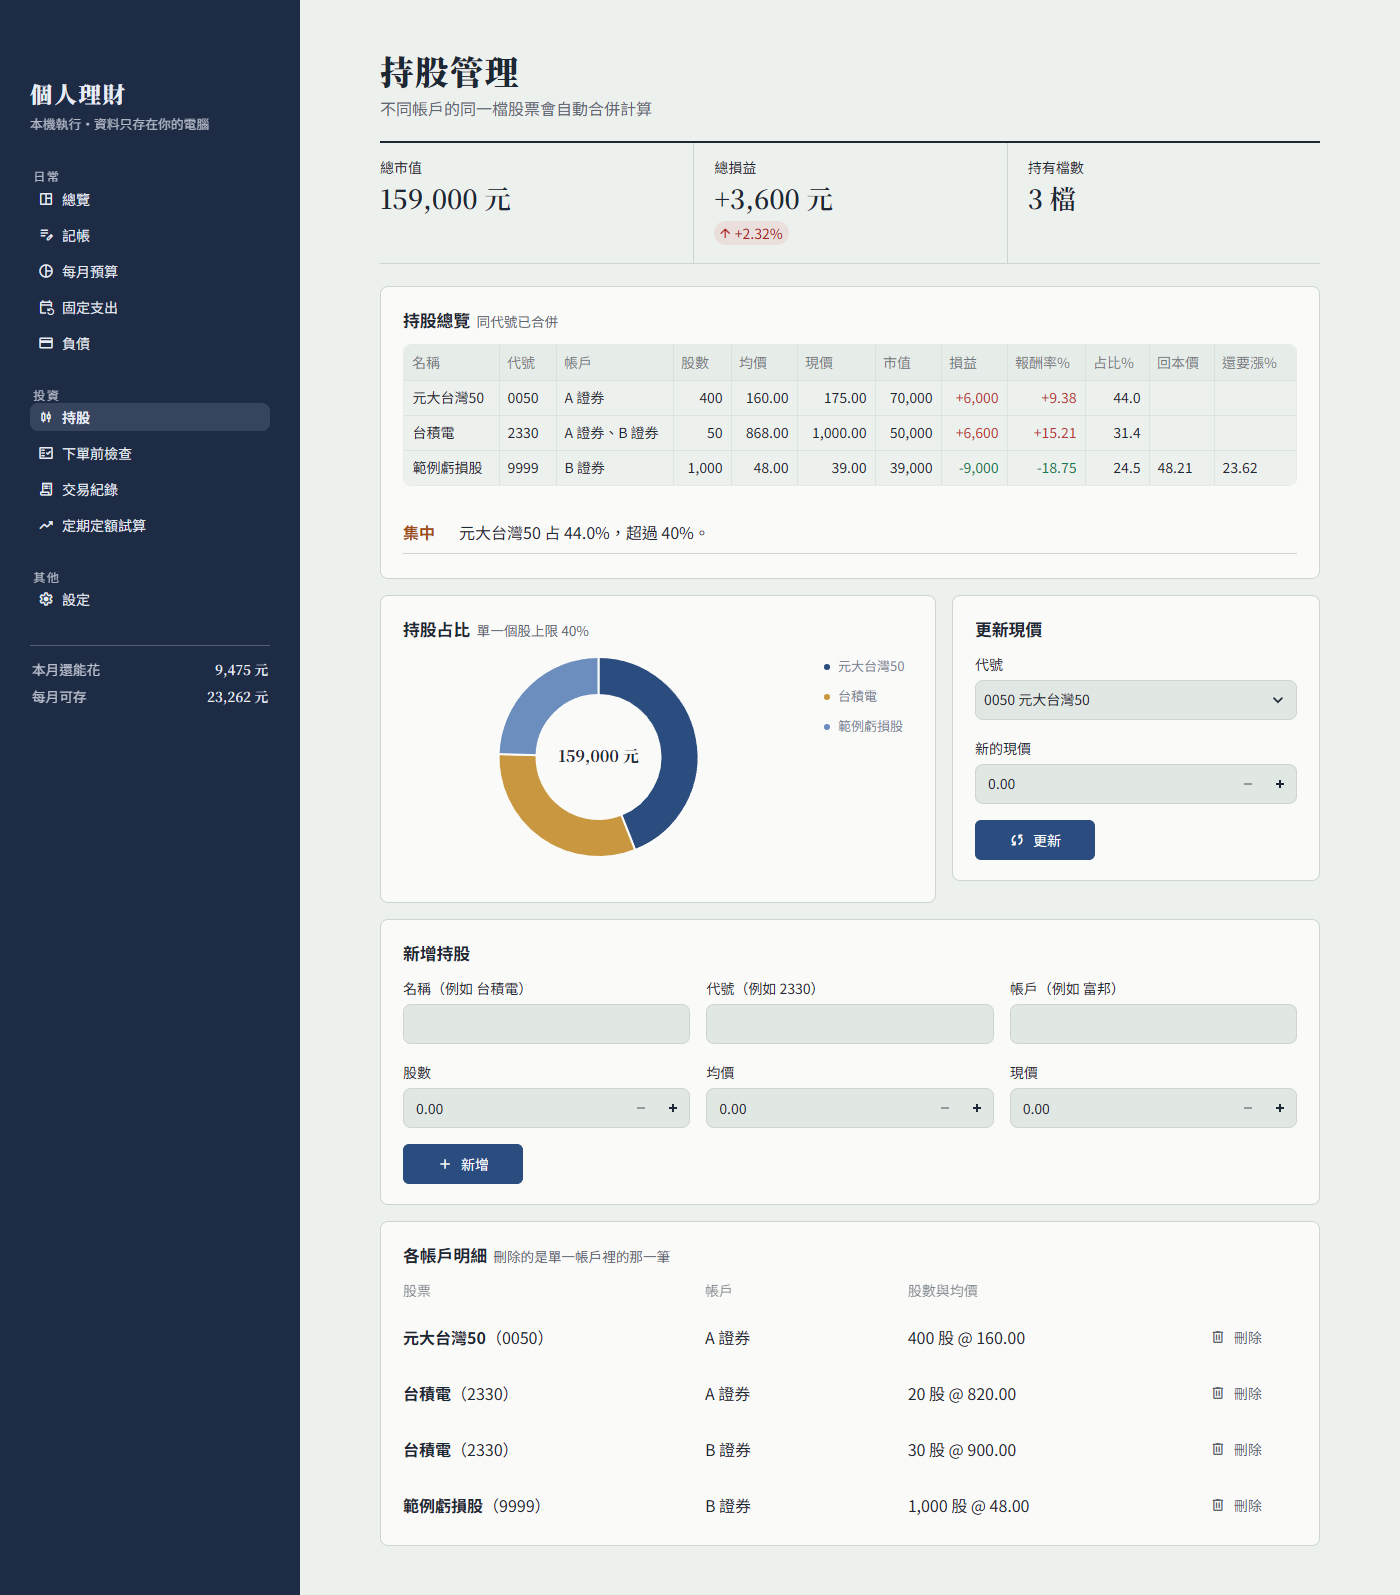
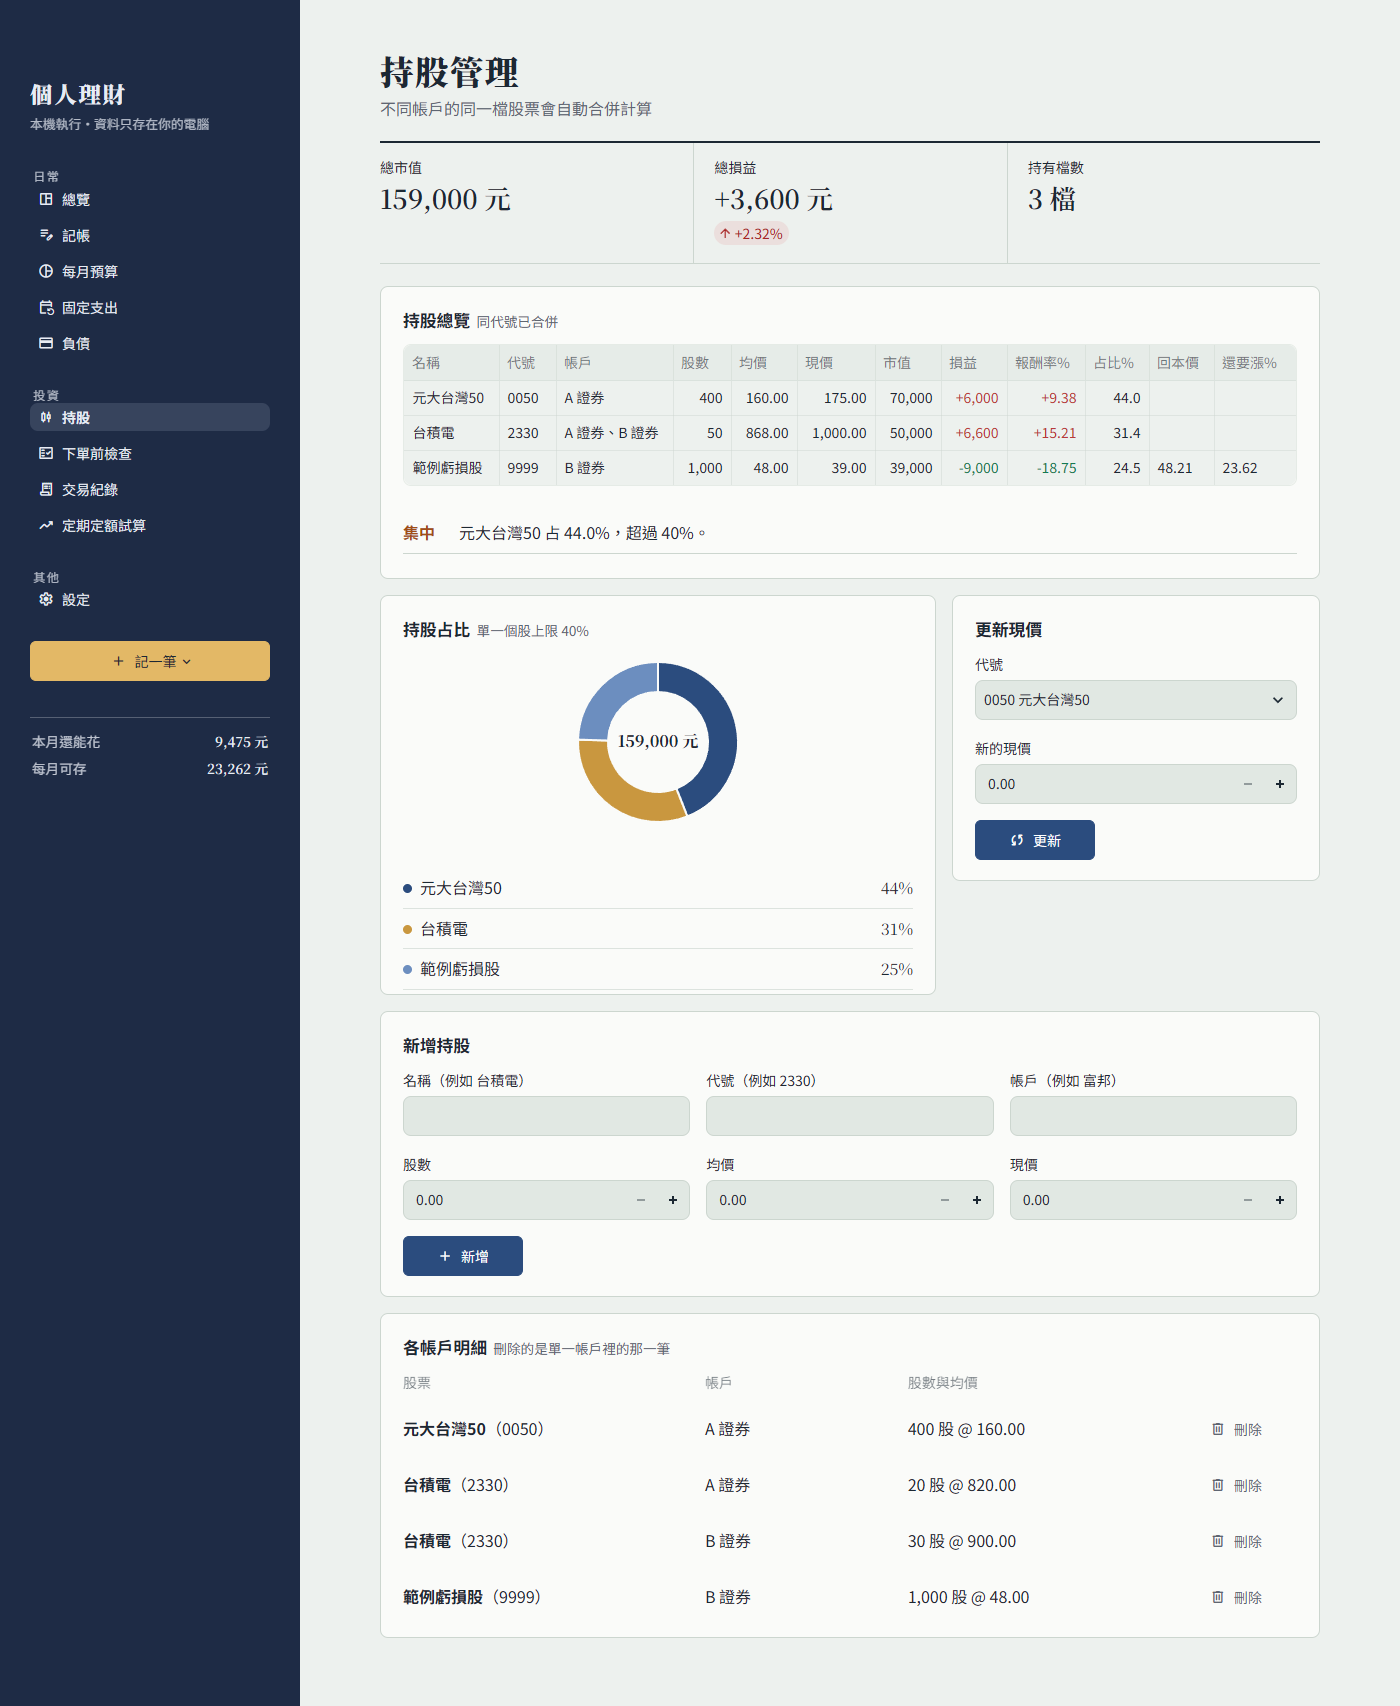
文件：README 新功能與安裝說明、更新截圖、CLAUDE.md 與開發紀錄補上 v1 與打包的坑

diff --git a/CLAUDE.md b/CLAUDE.md
@@ -30,14 +30,15 @@
 python -m venv .venv && source .venv/bin/activate   # Windows：.venv\Scripts\activate
 pip install -r requirements.txt
 streamlit run app.py          # http://localhost:8501，第一次會自動建立 data/finance.db
-pytest                        # 目前 44 passed
+pytest                        # 目前 83 passed（含 tests/test_app.py 的畫面測試）
 
 # 用虛構範例資料啟動（不會動到 finance.db）
 python seed_example.py
 FINANCE_DB=data/example.db streamlit run app.py
 ```
 
-打包 exe：Windows 跑 `build_exe.bat`，macOS 跑 `bash build_mac.sh`（只能在目標系統上打包）。細節見 README。
+打包：Windows 跑 `build_exe.bat`（產生安裝檔），macOS 跑 `bash build_mac.sh`。細節見 README。
+一般用 GitHub Actions 打包即可（PR 有改程式或打包檔案時自動跑，會實際安裝、啟動並確認畫面）。
 
 ## 架構：三層分開
 
@@ -52,8 +53,8 @@ FINANCE_DB=data/example.db streamlit run app.py
 
 ### 各檔案職責
 
-- `app.py`（約 1100 行）：由上到下是「配色與 CSS（`inject_css`）→ 共用小工具（`money`、`ledger`、`summary_strip`、`notices`、`plain`、`done`、`budget_bar`、`donut`…）→ 各頁 `page_*()` 函式 → 側邊欄 → 主程式（`NAV` 清單 + `st.navigation`）」。新增頁面：寫一個 `page_xxx()`，再加進檔尾的 `NAV`。外觀是「存摺」風格：一排數字用 `summary_strip()`、自律提醒用 `notices()`、明細用 `ledger()`。
-- `db.py`：`DB_PATH` 預設是 `data/finance.db`；exe 版（`sys.frozen`）是 `~/FinanceApp/finance.db`；環境變數 `FINANCE_DB` 可覆蓋。`init_db()` 用 `CREATE TABLE IF NOT EXISTS` 建 7 張表：`settings`（key/value）、`budgets`、`expenses`、`fixed_expenses`、`debts`、`holdings`、`trades`。
+- `app.py`（約 1100 行）：由上到下是「配色與 CSS（`inject_css`）→ 共用小工具（`money`、`ledger`、`summary_strip`、`notices`、`plain`、`done`、`budget_bar`、`show_donut`、`welcome`…）→ 各頁 `page_*()` 函式 → 側邊欄 → 主程式（`NAV` 清單 + `st.navigation`）」。新增頁面：寫一個 `page_xxx()`，再加進檔尾的 `NAV`。外觀是「存摺」風格：一排數字用 `summary_strip()`、自律提醒用 `notices()`、明細用 `ledger()`。
+- `db.py`：`DB_PATH` 預設是 `data/finance.db`；視窗版（`run_app.py` 設定環境變數，或 PyInstaller 的 `sys.frozen`）是 `~/FinanceApp/finance.db`；環境變數 `FINANCE_DB` 可覆蓋。`init_db()` 用 `CREATE TABLE IF NOT EXISTS` 建 9 張表：`settings`（key/value）、`budgets`、`expenses`、`fixed_expenses`、`debts`、`debt_payments`（還款紀錄）、`holdings`、`trades`、`networth_history`（每天的淨資產）。也負責每日自動備份（`auto_backup`，資料庫旁的 `backups/`，留 14 份）和還原（`restore_backup`，還原前先另存）。
 - `models/budget.py`：預算類別 `CATEGORIES`（唯一定義處）、篩選某月、本月還能花多少。
 - `models/cashflow.py`：每月可存 = 收入 − 固定支出 − 負債還款 − 生活預算。
 - `models/debt.py`：這期還多少、剩幾期、預計還清月份（假設下一期在下個月繳）。
@@ -62,7 +63,9 @@ FINANCE_DB=data/example.db streamlit run app.py
 - `models/trades.py`：交易類型、本月當沖次數、累計損益。
 - `models/dca.py`：定期定額複利試算、4% 法則。
 - `seed_example.py`：產生虛構範例資料到 `data/example.db`，路徑不是 `example.db` 就拒絕執行。
-- `run_app.py` / `FinanceApp.spec` / `build_*.{bat,sh}` / `requirements-build.txt`：PyInstaller 打包用。
+- `run_app.py`：視窗版入口（pywebview 開視窗 + 背景 Streamlit）。
+- Windows 安裝檔：`installer/build_runtime.py`（官方嵌入式 Python + `requirements-runtime.txt` 的套件 + 程式碼 → `dist/FinanceApp`）→ `installer/FinanceApp.iss`（Inno Setup）。捷徑執行 `python\pythonw.exe app\run_app.py`。
+- `FinanceApp.spec` / `build_mac.sh` / `requirements-build.txt`：macOS 用 PyInstaller 打包。
 - `.streamlit/config.toml`：主題配色、字型。
 
 ## 程式慣例與已知陷阱
@@ -79,7 +82,18 @@ FINANCE_DB=data/example.db streamlit run app.py
 - Streamlit 每次互動都會**從頭重跑整個 `app.py`**；資料要存資料庫，改完資料後呼叫 `st.rerun()`。
 - `requirements-build.txt` 要保持**純 ASCII**（Windows 的 pip 用 cp950 讀，有中文會失敗）。
 - `.streamlit/config.toml` 由 `FinanceApp.spec` 打包到 exe 裡 `app.py` 旁邊的 `.streamlit/`（Streamlit 會讀「主程式旁邊」的設定檔），所以 exe 版也有主題；改完要重新打包才會生效。`run_app.py` 的命令列參數優先權比 config.toml 高，兩邊不要設成不一樣的值。
-- 改完畫面，除了 `pytest`，也用 `streamlit.testing.v1.AppTest` 或實際啟動，確認每一頁都打得開。
+- 改完畫面跑 `pytest`：`tests/test_app.py` 會用 AppTest 跑每一頁（有資料、空資料各一次）。頁面是函式，AppTest 的 `switch_page` 用不了，所以測試用 `runpy` 執行 app.py 再呼叫頁面函式。新增頁面要加進 `PAGES` 清單。
+- 頁面裡要連到別頁用 `st.page_link(PAGES["網址名"])`（`PAGES` 在 app.py 檔尾建立）。
+
+## Windows 打包的坑（不要再犯）
+
+1. **不要改回 PyInstaller 的 exe**：沒有簽章的 FinanceApp.exe 會被 Trend Micro 等防毒軟體刪掉（2026-10-21 在使用者電腦實測：裝完 exe 就不見）。現在用官方有簽章的 `pythonw.exe`。
+2. 在有這類防毒的電腦上，PyInstaller 和 Inno Setup 編譯也會失敗（`EndUpdateResource failed`），請用 GitHub Actions 打包。
+3. 背景伺服器不能讀 stdin 偵測視窗關閉（Windows 上會卡住 Streamlit 送檔案，畫面全白）；用 `OpenProcess` + `WaitForSingleObject`。
+4. 只檢查 `/_stcore/health` 不夠，CI 用 `.github/scripts/check_window.py` 確認畫面真的畫出來。
+5. 連線用 `127.0.0.1`，不要用 `localhost`（可能被解析成 IPv6）。
+6. 嵌入式 Python 的版本要有官方 embed 檔：3.12 最後一版是 3.12.10（見 `build_runtime.py` 的 `EMBED_VERSIONS`）。
+7. `.bat`、`requirements*.txt` 保持純 ASCII；`.iss` 是 UTF-8 含 BOM；`AppId` 不能改。
 
 ## Git 與 PR
 
@@ -96,11 +110,12 @@ FINANCE_DB=data/example.db streamlit run app.py
 - ✅ exe 版套用主題
 - ✅ MIT 授權、README 下載說明
 - ✅ 介面改版：存摺風格，並修正全面測試找到的問題（2026-10-13）
+- ✅ Windows 安裝程式（安裝精靈、獨立視窗、CI 實際安裝測試）
+- ✅ v1 實用功能（2026-10-21）：首次使用引導、側邊欄記一筆、記帳月份切換與修改、6 個月趨勢、淨資產變化、還款紀錄、每日自動備份與還原；安裝版改用官方嵌入式 Python
 
 下一步建議的待辦（完整清單和理由見 `docs/開發紀錄.md` 的「待辦」）：
 1. ETF 賣出交易稅是 0.1%（目前一律用 0.3%），手續費最低 20 元
-2. 「已還一期」可重複按，需要還款紀錄
-3. 手上現金不會隨記帳／交易自動更新
-4. `db.py` 補測試（例如現金不夠時負債和現金都不變）
+2. 手上現金不會隨記帳／交易自動更新
+3. 記帳類別寫死在 `models/budget.py`，可以考慮讓使用者自訂
 
 開始做任何一項之前，先跟使用者確認要做哪一項。

diff --git a/docs/開發紀錄.md b/docs/開發紀錄.md
@@ -61,6 +61,18 @@
   - 定期定額報酬率是負的時候，資產線被本金面積蓋住 → 資產線畫在最上層。
   - `config.toml` 的字型備援清單被 Streamlit 當成網址的一部分 → 網址只寫一個字型，備援寫在 CSS。
 
+### v1 實用功能與安裝版改版（2026-10-21）
+- 目標：讓第一次用的人知道從哪裡開始、每天記帳更快、資料不會不見。
+- 總覽：沒有任何資料時（`db.is_empty()`）改成顯示三步驟引導；有資料時多「淨資產變化」折線圖（`networth_history`，每天打開總覽時覆蓋當天那筆，至少兩天才畫）。
+- 記帳：月份選單（本月一定在選單裡）、每列的「修改」小視窗（`update_expense`）、最近 6 個月依類別疊起來的長條圖與預算虛線（`models/budget.py` 的 `last_n_months`、`monthly_totals`）。
+- 側邊欄「記一筆」：日期固定今天，要補記以前的到記帳頁。
+- 還款紀錄：`debt_payments` 表，`pay_debt_installment` 在同一個交易裡多記一筆。自己決定的規則：這個月已經還過，就不顯示「已還一期」按鈕，改成「本月已還」+ 需要再確認的「提前再還一期」（不完全禁止，因為有人會一次繳兩期）。
+- 自動備份：每天第一次打開（每個瀏覽器分頁只檢查一次）用 SQLite 的 `backup()` 複製到資料庫旁的 `backups/`，留 14 份；還原前另存一份 `...-before-restore.db`，這種檔案不會被自動刪。備份失敗不影響開啟，只在設定頁顯示。
+- 圓餅圖：Altair 內建圖例在窄卡片會蓋到圓圈，改成自己用 HTML 畫圖例並顯示百分比（待辦 21）。設定頁路徑把家目錄顯示成 `~`（待辦 22）。
+- 測試 44 → 83：`tests/test_db_features.py`、`tests/test_app.py`（AppTest 跑每一頁和主要操作）。
+- **安裝版改用官方嵌入式 Python**：在使用者電腦（Trend Micro Apex One）實測，安裝 0.0.8 後 PyInstaller 的 FinanceApp.exe 立刻被刪除，捷徑點了沒反應。改成 `installer/build_runtime.py` 準備「python.org 嵌入式 Python + 套件 + 原始碼」，捷徑執行有官方簽章的 `pythonw.exe run_app.py`；用 AppUserModelID 和 `WM_SETICON` 讓工作列、視窗顯示理財系統圖示。實測同一台電腦可以正常開啟、畫面正常。
+- 同一台電腦上，PyInstaller 和 Inno Setup 自己編譯也會被防毒擋（`EndUpdateResource failed`），安裝檔改由 GitHub Actions 產生。
+
 ## 待辦
 
 依重要程度排序。開始做之前先和使用者確認要做哪幾項。
@@ -73,24 +85,24 @@
 
 ### 🟠 資料正確性
 5. 手上現金不會隨記帳、交易自動更新，「下單前檢查」用的現金可能不準。
-6. 「已還一期」可以重複按，沒有還款紀錄；建議加還款紀錄表，同月第二次先確認。
+6. ~~「已還一期」可以重複按~~ ✅ 已完成（2026-10-21）：還款紀錄 + 同月再確認。
 7. 金額用 REAL（浮點數）存，長期可能有幾毛錢誤差；台幣可改存整數。
 8. 同代號同帳戶可以重複新增成兩列；可改成「加碼」並重算均價。
 9. 下單前檢查的「預備金已存滿」「不是加碼虧損股」可以自動判斷，目前只是參考文字。
 
 ### 🟡 功能
-10. 記帳、負債、持股、交易只能刪除重建，不能編輯（可用 `st.data_editor`）。
-11. 記帳和當沖次數只能看本月，沒有月份選擇器。
-12. 只有匯出 CSV，沒有從備份還原。
+10. 負債、持股、交易只能刪除重建，不能編輯（記帳已經可以修改，2026-10-21）。
+11. ~~記帳只能看本月~~ ✅ 記帳有月份選單了（2026-10-21）；當沖次數仍只看本月。
+12. ~~沒有從備份還原~~ ✅ 每日自動備份 + 設定頁一鍵還原（2026-10-21）；匯出的 CSV 仍不能匯入。
 13. 交易紀錄和持股沒有連動。
 
 ### 🔵 程式品質
 14. `with sqlite3.connect(...)` 只會 commit／rollback，**不會關閉連線**；可用 `contextlib.closing`。
-15. `db.py` 測試很少，`pay_debt_installment()` 最值得補。
-16. 畫面沒有自動測試，可把 `AppTest` 檢查寫成 `tests/test_app.py`。
+15. ~~`db.py` 測試很少~~ ✅ `tests/test_db_features.py`（2026-10-21）。
+16. ~~畫面沒有自動測試~~ ✅ `tests/test_app.py`（2026-10-21）。
 17. 加 GitHub Actions 自動跑 `pytest`。
 18. 資料表升級：`CREATE TABLE IF NOT EXISTS` 不會幫舊資料庫加欄位，加欄位時要寫 `ALTER TABLE` 升級程式。
 19. `app.py` 約 1000 行，再加功能可考慮拆成多個檔案。
 20. 小細節：股數可以輸入小數（零股以外應該是整數）。
-21. 視窗大約 1024px 寬、側邊欄展開時，持股占比圓餅圖的圖例會被裁掉（改版前就有）。
-22. 設定頁顯示資料庫的完整路徑（含 Windows 使用者名稱）。這是刻意讓使用者知道資料在哪裡，但截圖分享時要小心；可以考慮把家目錄顯示成 `~`。
+21. ~~1024px 寬時圓餅圖圖例被裁掉~~ ✅ 改用自己畫的圖例（2026-10-21）。
+22. ~~設定頁顯示完整路徑~~ ✅ 家目錄顯示成 `~`（2026-10-21）。
